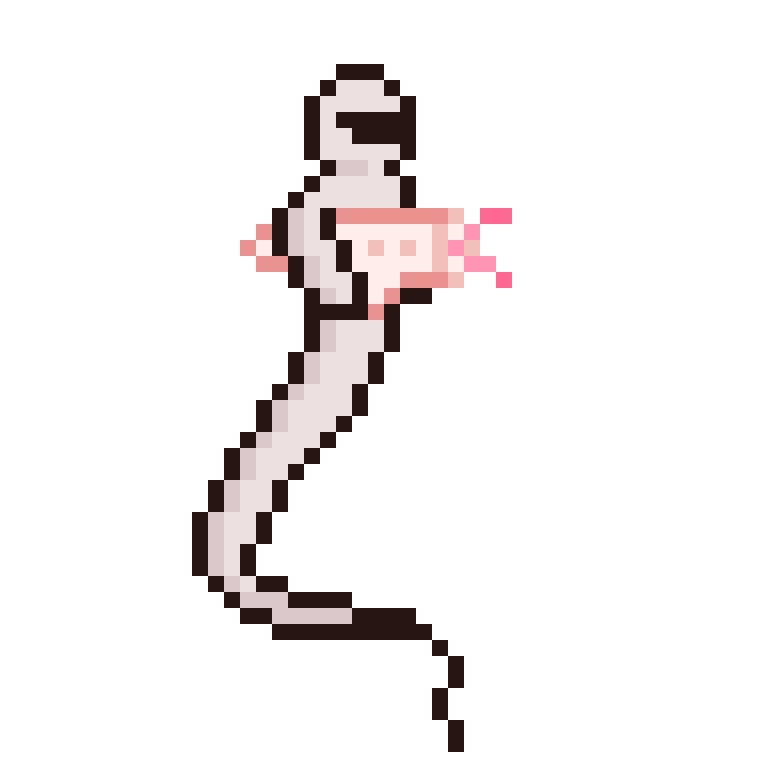
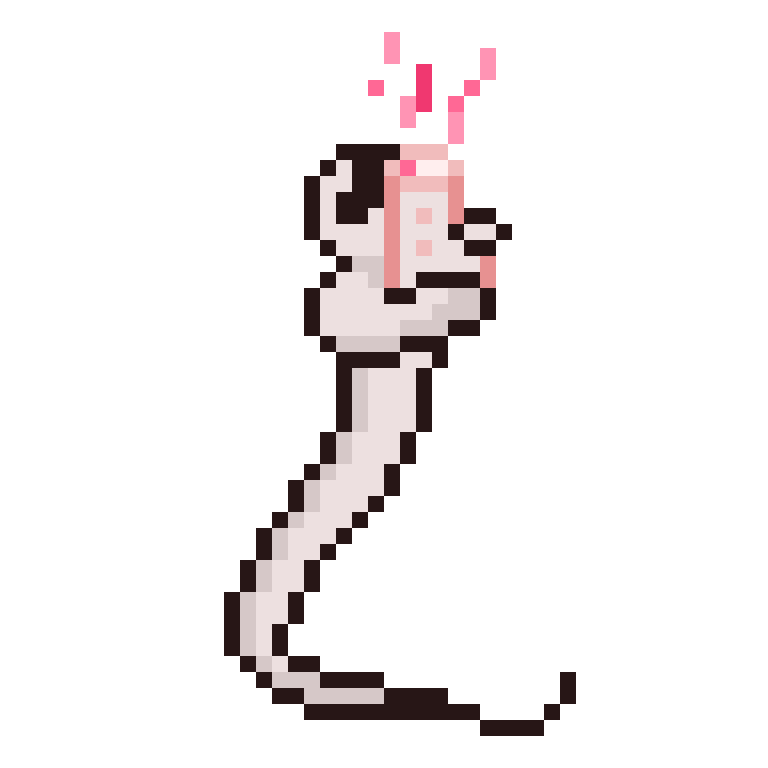
add player with shoot gun

Changed region(s): [[0.25, 0.0312, 0.75, 1.0]]

diff --git a/entities/Player_model.py b/entities/Player_model.py
@@ -7,7 +7,7 @@ class Player(pygame.sprite.Sprite):
         super().__init__()
         self.frames = self.load_frames("assets/characters/cristobal/")
         self.rest_frames = self.load_frames("assets/characters/cristobal/rest/")
-        self.shoot_frames = self.load_frames("assets/characters/cristobal/rest_shoot/")  # Lista de sprites de disparo
+        self.shoot_frames = self.load_frames("assets/characters/cristobal/rest_shoot/")  
 
         self.current_frame = 0
         self.image = pygame.transform.scale(self.frames[self.current_frame], (100, 100))
@@ -31,7 +31,7 @@ class Player(pygame.sprite.Sprite):
         self.shooting = False
         self.shoot_frame_index = 0
         self.shoot_animation_timer = 0
-        self.shoot_animation_speed = 40  #
+        self.shoot_animation_speed = 40  
 
     def load_frames(self, folder_path):
         frames = []
@@ -119,11 +119,11 @@ class Player(pygame.sprite.Sprite):
                         self.shoot_frame_index = 0
                         self.shooting = False
 
-                self.image = pygame.transform.scale(self.shoot_frames[self.shoot_frame_index], (80, 80))
+                self.image = pygame.transform.scale(self.shoot_frames[self.shoot_frame_index], (100, 100))
             elif self.weapon_active:
-                self.image = pygame.transform.scale(self.shoot_frames[0], (80, 80))
+                self.image = pygame.transform.scale(self.shoot_frames[0], (100, 100))
             else:
-                self.image = pygame.transform.scale(self.rest_frames[self.current_frame], (80, 80))
+                self.image = pygame.transform.scale(self.rest_frames[self.current_frame], (100, 100))
 
             self.image.set_colorkey((0, 0, 0))
         else:
@@ -135,7 +135,7 @@ class Player(pygame.sprite.Sprite):
 
             if len(self.frames) > 1 and current_time - self.last_update >= self.frame_rate:
                 self.current_frame = (self.current_frame + 1) % len(self.frames)
-                self.image = pygame.transform.scale(self.frames[self.current_frame], (80, 80))
+                self.image = pygame.transform.scale(self.frames[self.current_frame], (100, 100))
                 self.image = self.image.convert_alpha()
                 self.image.set_colorkey((0, 0, 0))
                 self.last_update = current_time

diff --git a/entities/Bullet.py b/entities/Bullet.py
@@ -4,7 +4,7 @@ class Bullet(pygame.sprite.Sprite):
     def __init__(self, x, y):
         super().__init__()
         self.image = pygame.Surface((10, 20))
-        self.image.fill((255, 105, 180)) 
+        self.image.fill((255, 56, 112)) 
         self.rect = self.image.get_rect()
         self.rect.centerx = x
         self.rect.bottom = y
